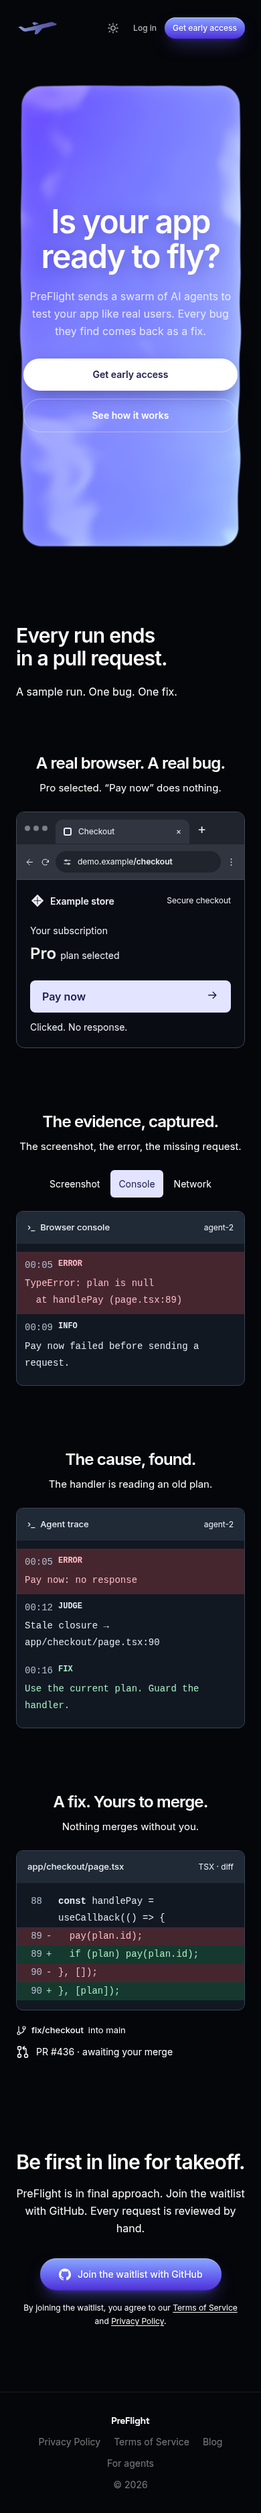
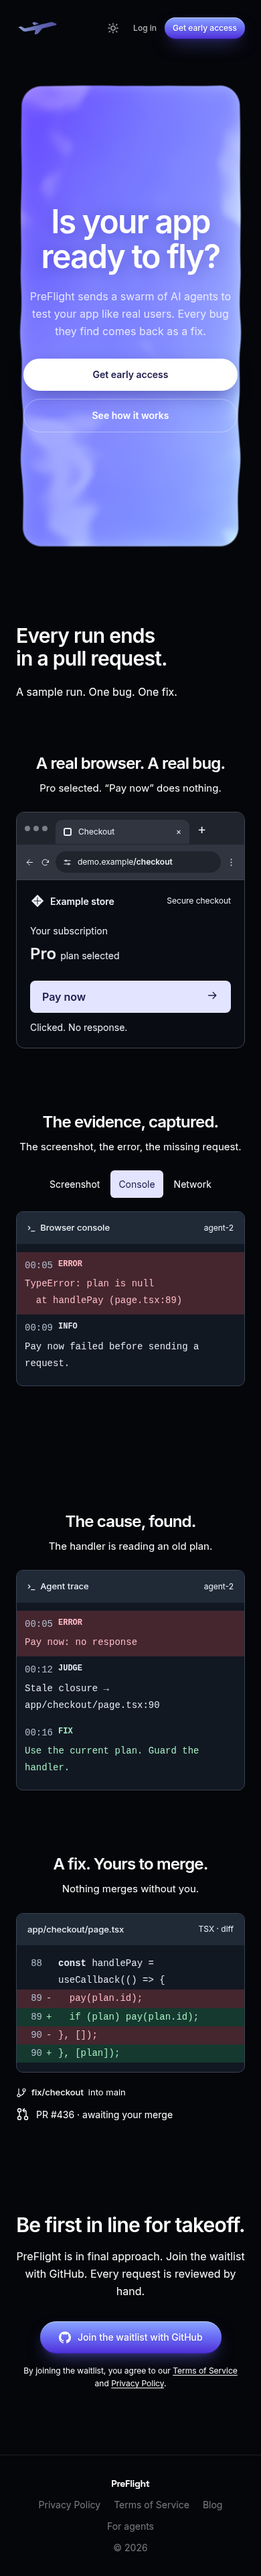
Blur-warp evidence transitions within a stable shared panel area

diff --git a/components/RunEvidence.tsx b/components/RunEvidence.tsx
@@ -126,73 +126,79 @@ export default function RunEvidence() {
           </button>
         ))}
       </div>
-      {TABS.map((tab, index) => (
-        <div
-          key={tab}
-          id={`${id}-panel-${index}`}
-          role="tabpanel"
-          aria-labelledby={`${id}-tab-${index}`}
-          hidden={active !== index}
-          tabIndex={0}
-          className="run-evidence-panel"
-        >
-          {index === 0 && (
-            <>
-              <CheckoutSnapshot />
-            </>
-          )}
-          {index === 1 && (
-            <LogBlock
-              title="Browser console"
-              entries={[
-                {
-                  time: "00:05",
-                  level: "error",
-                  message:
-                    "TypeError: plan is null\n  at handlePay (page.tsx:89)",
-                },
-                {
-                  time: "00:09",
-                  level: "info",
-                  message: "Pay now failed before sending a request.",
-                },
-              ]}
-            />
-          )}
-          {index === 2 && (
-            <figure className="run-network-block">
-              <figcaption className="run-block-header">
-                <span>Network</span>
-                <span className="run-block-meta">agent-2 · /checkout</span>
-              </figcaption>
-              <div className="run-network-summary">
-                3 clicks · 0 checkout requests
-              </div>
-              <dl className="run-network-request">
-                <div>
-                  <dt>Request</dt>
-                  <dd>
-                    <code>POST /api/checkout</code>
-                  </dd>
-                </div>
-                <div>
-                  <dt>Status</dt>
-                  <dd>Not sent</dd>
-                </div>
-                <div>
-                  <dt>Initiator</dt>
-                  <dd>
-                    <code>handlePay · page.tsx:89</code>
-                  </dd>
-                </div>
-              </dl>
-              <p className="run-network-note">
-                Handler threw before fetch. No request reached the server.
-              </p>
-            </figure>
-          )}
-        </div>
-      ))}
+      <div className="run-evidence-stack">
+        {TABS.map((tab, index) => (
+          <div
+            key={tab}
+            id={`${id}-panel-${index}`}
+            role="tabpanel"
+            aria-labelledby={`${id}-tab-${index}`}
+            data-active={active === index || undefined}
+            aria-hidden={active !== index ? true : undefined}
+            inert={active !== index}
+            tabIndex={active === index ? 0 : -1}
+            className="run-evidence-panel"
+          >
+            <div className="run-evidence-content">
+              {index === 0 && (
+                <>
+                  <CheckoutSnapshot />
+                </>
+              )}
+              {index === 1 && (
+                <LogBlock
+                  title="Browser console"
+                  entries={[
+                    {
+                      time: "00:05",
+                      level: "error",
+                      message:
+                        "TypeError: plan is null\n  at handlePay (page.tsx:89)",
+                    },
+                    {
+                      time: "00:09",
+                      level: "info",
+                      message: "Pay now failed before sending a request.",
+                    },
+                  ]}
+                />
+              )}
+              {index === 2 && (
+                <figure className="run-network-block">
+                  <figcaption className="run-block-header">
+                    <span>Network</span>
+                    <span className="run-block-meta">agent-2 · /checkout</span>
+                  </figcaption>
+                  <div className="run-network-summary">
+                    3 clicks · 0 checkout requests
+                  </div>
+                  <dl className="run-network-request">
+                    <div>
+                      <dt>Request</dt>
+                      <dd>
+                        <code>POST /api/checkout</code>
+                      </dd>
+                    </div>
+                    <div>
+                      <dt>Status</dt>
+                      <dd>Not sent</dd>
+                    </div>
+                    <div>
+                      <dt>Initiator</dt>
+                      <dd>
+                        <code>handlePay · page.tsx:89</code>
+                      </dd>
+                    </div>
+                  </dl>
+                  <p className="run-network-note">
+                    Handler threw before fetch. No request reached the server.
+                  </p>
+                </figure>
+              )}
+            </div>
+          </div>
+        ))}
+      </div>
     </div>
   );
 }

diff --git a/app/globals.css b/app/globals.css
@@ -322,3 +322,14 @@ body {
 }
 
 html[data-run-pinned] nav[aria-label="Main navigation"] { visibility: hidden; pointer-events: none; }
+
+/* All evidence panels size one shared slot; only their contents transition. */
+.run-evidence-stack { display: grid; align-items: start; isolation: isolate; }
+.run-evidence-stack > .run-evidence-panel { grid-area: 1 / 1; min-width: 0; visibility: hidden; pointer-events: none; transition: visibility 400ms; }
+.run-evidence-content { opacity: 0; filter: blur(8px); transform: translateY(8px) scale(.97, 1.02) skewX(-1.5deg); transform-origin: 50% 35%; transition: opacity 260ms ease, filter 320ms ease, transform 400ms cubic-bezier(0.16, 1, 0.3, 1); }
+.run-evidence-stack > .run-evidence-panel[data-active] { visibility: visible; pointer-events: auto; z-index: 1; transition: visibility 0s; }
+.run-evidence-panel[data-active] > .run-evidence-content { opacity: 1; filter: blur(0); transform: translateY(0) scale(1) skewX(0deg); }
+@media (prefers-reduced-motion: reduce) {
+  .run-evidence-stack > .run-evidence-panel, .run-evidence-content { transition: none; }
+  .run-evidence-content { filter: none; transform: none; }
+}

diff --git a/docs/landing-review/README.md b/docs/landing-review/README.md
@@ -2,7 +2,9 @@
 
 Four minimal scenes share the center of the viewport: browser → evidence → diagnosis → fix. The scene stays pinned while scrolling through the sequence and releases after the PR. Scroll position selects the step; native page scrolling is preserved. The floating run toolbar is removed, and the site nav is hidden during the pinned sequence and restored on release.
 
-Each step has one short heading, one sentence and its product visual. The final diff is shorter, with the branch and human merge decision below it. Browser chrome, code blocks, logs, evidence tabs and both themes are retained. Reduced motion, JavaScript-disabled browsers and viewports too short for the visuals show all steps in natural document flow.
+Each step has one short heading, one sentence and its product visual. The final diff is shorter, with the branch and human merge decision below it. Browser chrome, code blocks, logs, evidence tabs and both themes are retained. Evidence tabs crossfade with an 8px blur and a small scale/skew warp. All three panels share a grid slot sized by the tallest content, so the caption, tabs and surrounding scene keep identical geometry when the selected evidence changes. Inactive panels are inert and hidden from assistive technology; reduced motion disables the transition.
+
+Reduced motion, JavaScript-disabled browsers and viewports too short for the visuals show all steps in natural document flow.
 
 ## Pinned scenes
 
@@ -32,6 +34,7 @@ These after images show the reduced-motion stacked fallback. Before images use t
 - Installation, typecheck, production build and diff checks pass. The repository has no lint or test scripts.
 - At 1440×900, 768×1024 and 390×844, both themes: each of the four scenes stays within 2px of the viewport's vertical center; exactly one scene is active; the sequence releases after its last scene; no document or code overflow; evidence tabs work by mouse and keyboard. The floating site nav stays hidden while pinned and returns afterward. See pinned-verification.jsonl.
 - Reduced motion and JavaScript-disabled checks verify all four steps remain visible without pinning. Short viewports use this same natural-flow fallback.
+- Evidence-transition checks at all three viewport sizes in both themes compare the exact caption, tab-strip and panel-area bounds before, during and after switching tabs. They also verify the blur effect, rapid keyboard selection, no overflow and the reduced-motion fallback. See evidence-transition.jsonl.
 - Axe WCAG A/AA checks, including normal-text contrast, cover every evidence tab and all scene visuals in both themes using the reduced-motion fallback. See accessibility.jsonl.
 - CTA destinations remain `#early-access`, `#how-it-works` and `/login`. Privacy, Terms and For agents return 200. Blog needs DATABASE_URL and returns 500 without it; the link is unchanged. OAuth and waitlist submission remain untested without credentials.
 
